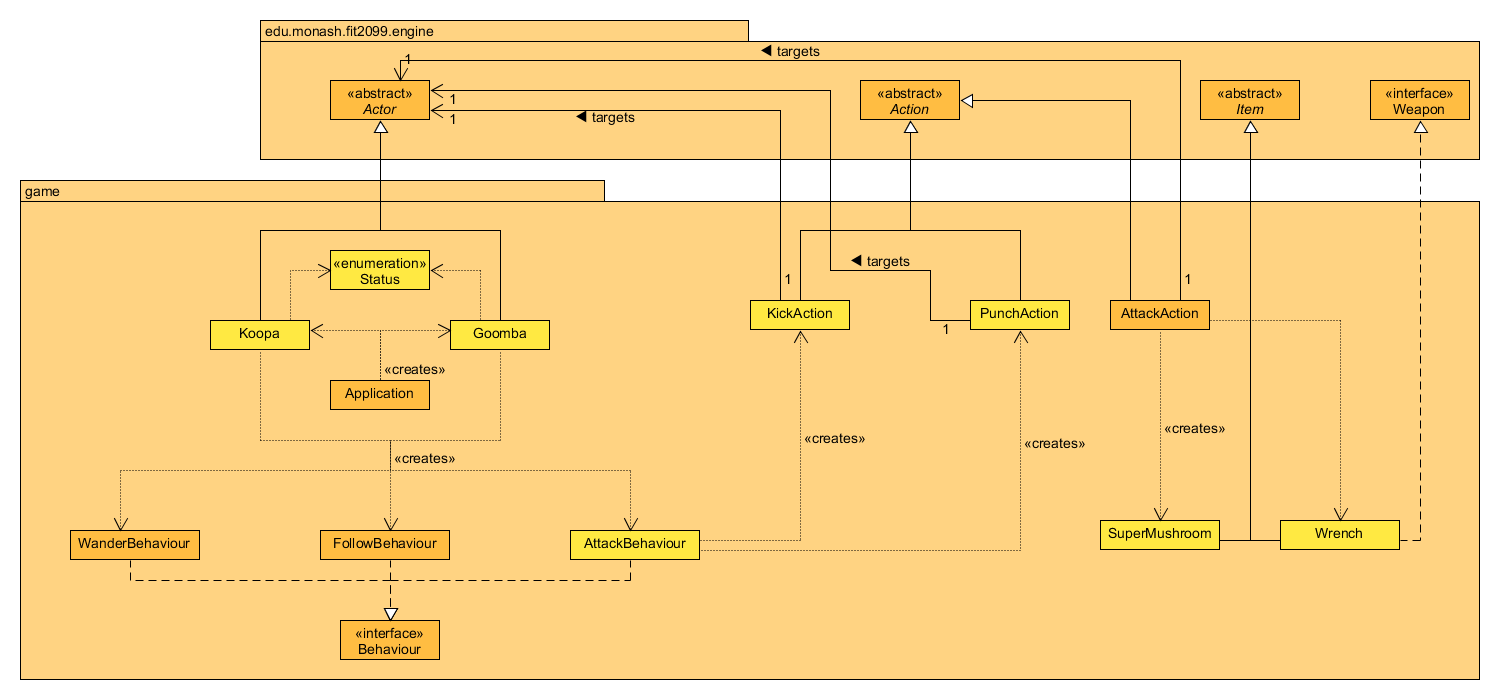
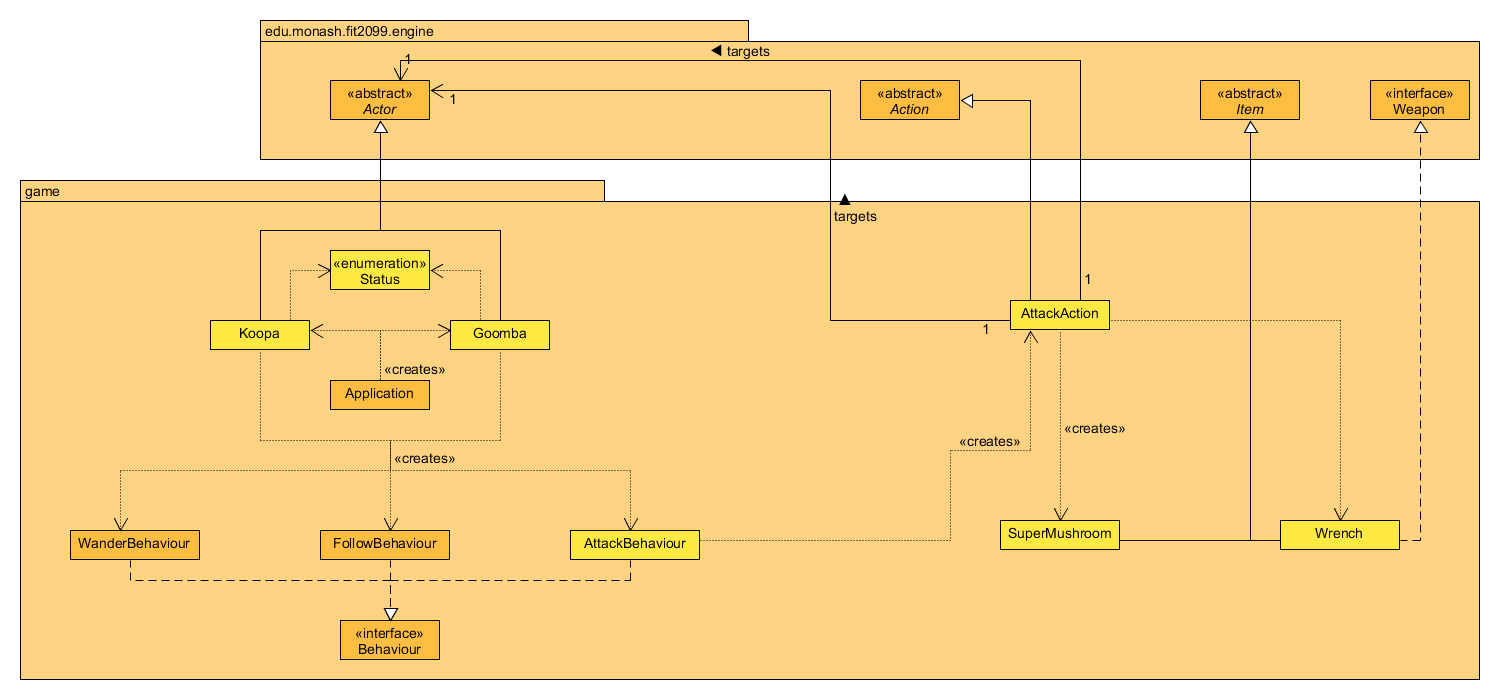
Updated all classes for REQ3, and class sequence diagrams after Assignment 2 comments.

diff --git a/src/game/actions/AttackAction.java b/src/game/actions/AttackAction.java
@@ -7,8 +7,10 @@ import edu.monash.fit2099.engine.actions.ActionList;
 import edu.monash.fit2099.engine.actors.Actor;
 import edu.monash.fit2099.engine.positions.GameMap;
 import edu.monash.fit2099.engine.items.Item;
+import edu.monash.fit2099.engine.positions.Location;
 import edu.monash.fit2099.engine.weapons.Weapon;
 import game.Status;
+import game.items.SuperMushroom;
 
 /**
  * Special Action for attacking other Actors.
@@ -59,6 +61,15 @@ public class AttackAction extends Action {
 				target.removeCapability(Status.TALL);
 			}
 			if (!target.isConscious() || actor.hasCapability(Status.POWER_STAR)) {
+				if (target.toString().equalsIgnoreCase("Koopa") ) {
+					if (target.getDisplayChar() == 'D' && weapon.toString().equalsIgnoreCase("Wrench")){
+						Location location = map.locationOf(target);
+						map.removeActor(target);
+						location.addItem(new SuperMushroom());
+						return "Shell breaks";
+					}
+					return target + " becomes a shell.";
+				}
 				ActionList dropActions = new ActionList();
 				// drop all items
 				for (Item item : target.getInventory())
@@ -75,6 +86,9 @@ public class AttackAction extends Action {
 
 	@Override
 	public String menuDescription(Actor actor) {
+		if(target.getDisplayChar() == 'D'){
+			return actor + " breaks shell";
+		}
 		return actor + " attacks " + target + " at " + direction;
 	}
 }

diff --git a/src/game/Status.java b/src/game/Status.java
@@ -14,7 +14,5 @@ public enum Status {
     CAN_MANAGE_MONEY, // use this to indicate that an actor is able to pick up money
     WALKABLE_FOR_PLAYER, // use this to indicate that an actor is able to enter a floor ground area or lava area.
     CAN_TELEPORT, // whoever uses this can teleport
-    CAN_KICK, // use this status to indicate that an actor is able to kick.
-    CAN_PUNCH, // use this status to indicate that an actor is able to punch.
     RESETTABLE,
 }

diff --git a/src/game/actors/Player.java b/src/game/actors/Player.java
@@ -22,7 +22,7 @@ import java.util.Stack;
 public class Player extends Actor implements WalletKeeper, Resettable {
 
 	private final Menu menu = new Menu();
-	private int balance = 0;
+	private int balance = 1000;
 	private boolean resetTimes = true;
 	private HashMap<Location, Location> teleportPoints = new HashMap<Location, Location>();
 	/**

diff --git a/src/game/actors/Koopa.java b/src/game/actors/Koopa.java
@@ -31,7 +31,6 @@ public class Koopa extends Actor implements Resettable {
         super("Koopa", 'K', 100);
         this.behaviours.put(10, new WanderBehaviour());
         this.addCapability(Status.HOSTILE_TO_PLAYER);
-        this.addCapability(Status.CAN_PUNCH);
         registerInstance();
     }
 

diff --git a/src/game/actors/Goomba.java b/src/game/actors/Goomba.java
@@ -34,7 +34,6 @@ public class Goomba extends Actor implements Resettable {
 		super("Goomba", 'g', 20); //updated from 50hp -> 20hp
 		this.behaviours.put(10, new WanderBehaviour());
 		this.addCapability(Status.HOSTILE_TO_PLAYER);
-		this.addCapability(Status.CAN_KICK);
 		registerInstance();
 	}
 

diff --git a/design-docs/REQ3_DesignRationale.md b/design-docs/REQ3_DesignRationale.md
@@ -16,14 +16,12 @@ For reference, here are the class diagrams and sequence diagrams.
 
 My approach for this was to create a new status in the Status enumeration class and 
 add it as a capability to both Koopa and Goomba to have them attack the Player similar to
-the status HOSTILE_TO_ENEMY used by the Player. The Koopa and Goomba will then utilise
+the status HOSTILE_TO_ENEMY used by the Player. Previously, I had the Koopa and Goomba utilise
 the PunchAction and KickAction classes respectively which are instantiated in the AttackBehaviour 
-class to attack the Player. The PunchAction and KickAction classes will generate a 
-random probability and compare it to the hit rate of the attack, if it is within the 
-range of the hit rate, the Player will take damage. My previous approach for this was to
-have the Koopa and Goomba have the capability HOSTILE_TO_ENEMY but this would have 
-resulted in the Koopa and Goomba attacking themselves instead of the Player which 
-was why I went with this approach.
+class to attack the Player. However, this violates the DRY principle, hence I scrapped both and instead
+utilised the existing AttackAction class instead. I overrided the getIntrinsicWeapons() method in both
+the Goomba and Koopa classes to give them their own unique attack values. The AttackAction class is 
+instantiated in the AttackBehaviour class now, replacing the previously used KickAction and PunchAction classes.
   
 The Koopa and Goomba are enemies that appear in the game that can attack
 the Player. The Koopa and Goomba classes instantiate the following classes:    
@@ -34,9 +32,7 @@ is standing next to them.
 3. AttackBehaviour: It is used to make the enemies automatically attack the Player
 if the Player is standing next to them.
   
-The AttackBehaviour class creates the KickAction class which is used by a Goomba
-to kick(attack) the Player and the PunchAction class which is used by a Koopa
-to punch(attack) the Player.  
+The AttackBehaviour class instantiates an AttackAction class used by enemies to attack the Player.
   
 The AttackAction class which is used by the Player to attack enemies will drop
 create a new SuperMushroom object after the Player breaks a Koopa shell with 
